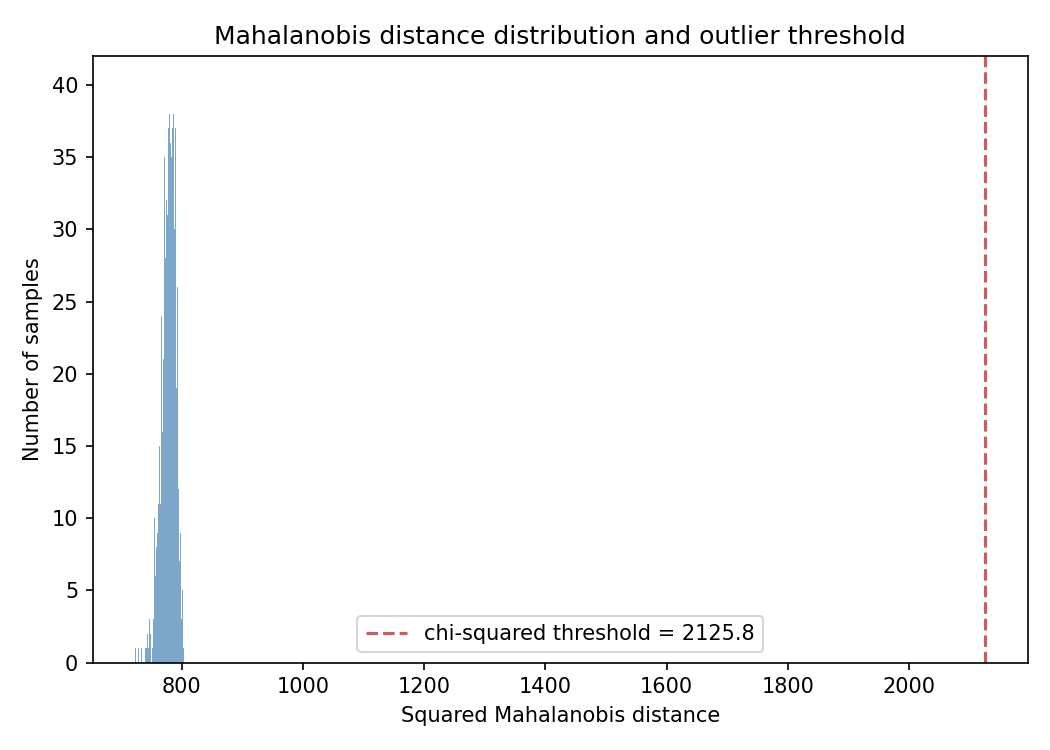
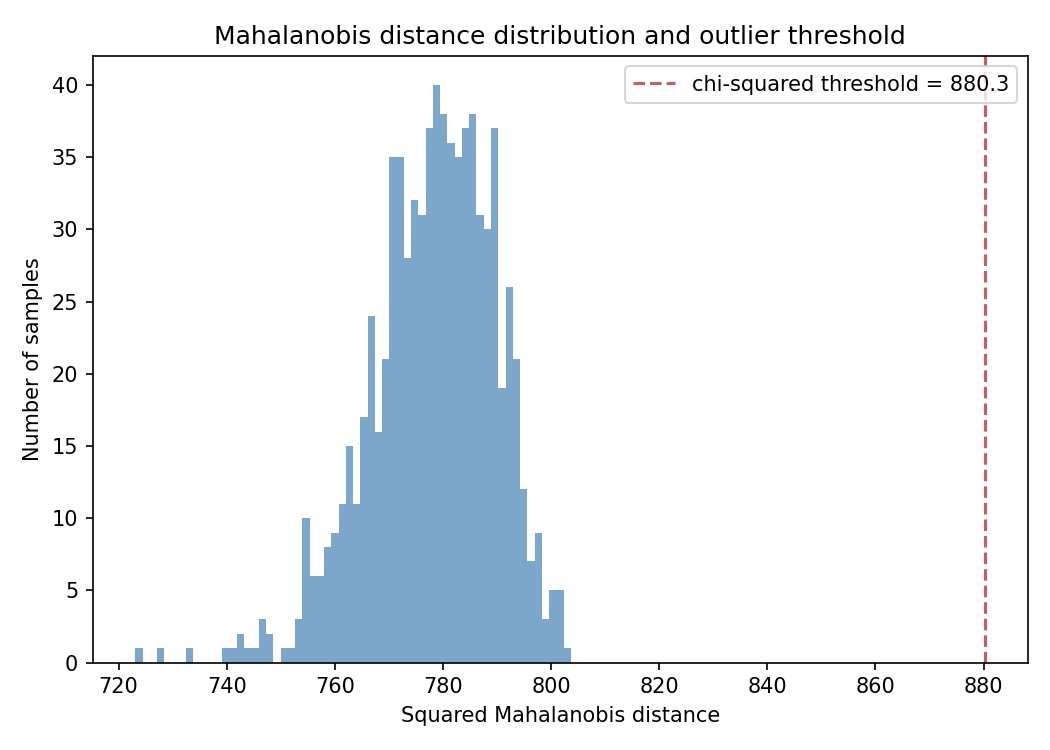
After doing a full check of the results, some issues were found - thus a full sweep of the project was performed and the solutions were implemented

diff --git a/run_pipeline.py b/run_pipeline.py
@@ -38,6 +38,32 @@ def _estimate_all(X: np.ndarray, seed: int) -> dict:
     }
 
 
+def _manifold_noise_sweep(n_samples: int, n_features: int, noise_levels: list, seed: int) -> None:
+    """Print estimator behaviour on the manifold baseline across noise levels.
+
+    Motivates config.MANIFOLD_NOISE_STD: the additive noise contributes
+    n_features * sigma^2 of total variance against only MANIFOLD_INTRINSIC_DIM
+    from signal, so "small" sigma must be judged relative to the ambient
+    dimension. Preprocessing matches the main run so the sigma chosen there is
+    directly comparable to the summary table.
+    """
+    print("\nPhase 2 manifold-baseline noise sensitivity (true dimension "
+          f"{config.MANIFOLD_INTRINSIC_DIM}):")
+    for sigma in noise_levels:
+        X = preprocessing.standardize(
+            synthetic.generate_low_dim_manifold_baseline(
+                n_samples, n_features, config.MANIFOLD_INTRINSIC_DIM, sigma, seed
+            )
+        )
+        res = _estimate_all(X, seed)
+        print(
+            f"  sigma={sigma:<7} D2={res['correlation']['D2']:>7.2f}  "
+            f"kaiser={res['pca']['elbow_kaiser']:>4}  "
+            f"PCA@90={res['pca']['n_components_at_threshold'][0.90]:>4}  "
+            f"kNN-MLE(k=10)={res['knn']['per_k'][10]['mean_dimension']:>8.2f}"
+        )
+
+
 def main():
     Path(config.PROCESSED_DIR).mkdir(parents=True, exist_ok=True)
     Path(config.FIGURES_DIR).mkdir(parents=True, exist_ok=True)
@@ -98,10 +124,18 @@ def main():
     )
 
     # --- Phase 2: synthetic baselines, matched in shape to the real full matrix ---
+    # Both baselines are standardized like the real data, so the estimators see
+    # one identical preprocessing path across all three datasets. Without this the
+    # manifold baseline would be calibrated on unscaled coordinates while the real
+    # data is z-scored, making the comparison an unequal one.
     n_samples, n_features = X_scaled_full.shape
-    noise_baseline = synthetic.generate_gaussian_noise_baseline(n_samples, n_features, config.RANDOM_SEED)
-    manifold_baseline = synthetic.generate_low_dim_manifold_baseline(
-        n_samples, n_features, config.MANIFOLD_INTRINSIC_DIM, config.MANIFOLD_NOISE_STD, config.RANDOM_SEED
+    noise_baseline = preprocessing.standardize(
+        synthetic.generate_gaussian_noise_baseline(n_samples, n_features, config.RANDOM_SEED)
+    )
+    manifold_baseline = preprocessing.standardize(
+        synthetic.generate_low_dim_manifold_baseline(
+            n_samples, n_features, config.MANIFOLD_INTRINSIC_DIM, config.MANIFOLD_NOISE_STD, config.RANDOM_SEED
+        )
     )
 
     # --- Phase 2: run all three estimators on real data and both baselines ---
@@ -135,6 +169,15 @@ def main():
 
     print("\nPhase 2 intrinsic dimension summary:")
     print(summary_table.to_string())
+    print("\nPhase 2 PCA elbow criteria (component index):")
+    for name, res in {"Real (RNA-Seq)": real_results, **synthetic_results}.items():
+        print(f"  {name}: kaiser={res['pca']['elbow_kaiser']}, curvature={res['pca']['elbow_curvature']}")
+    print(
+        f"Phase 2 correlation-dimension scaling region (real): "
+        f"[{real_results['correlation']['scaling_region'][0]:.1f}, "
+        f"{real_results['correlation']['scaling_region'][1]:.1f}]"
+    )
+    _manifold_noise_sweep(n_samples, n_features, [0.1, 0.01, 0.001], config.RANDOM_SEED)
     print("\nReconciliation:\n" + reconciliation)
     print(
         f"\nPhase 2 complete. Real data: D2={real_results['correlation']['D2']:.2f}, "
@@ -185,7 +228,10 @@ def main():
 
     # --- Phase 3: spectral analysis (top-k genes) vs. Marchenko-Pastur ---
     spectral_eigs = spectral_analysis.empirical_spectral_distribution(X_scaled_topk)
-    spectral_aspect_ratio = X_scaled_topk.shape[1] / X_scaled_topk.shape[0]
+    # Columns are mean-centred, so the correlation matrix carries n-1 effective
+    # degrees of freedom, not n. Using n would put the MP point mass at 59.95%
+    # against an empirical 60.00% that is in fact exact.
+    spectral_aspect_ratio = X_scaled_topk.shape[1] / (X_scaled_topk.shape[0] - 1)
     spectral_outliers = spectral_analysis.identify_spectral_outliers(spectral_eigs, spectral_aspect_ratio)
     support_upper = spectral_outliers["support_upper"]
     bulk_eigs = spectral_eigs[(spectral_eigs > 1e-8) & (spectral_eigs <= support_upper)]
@@ -202,6 +248,9 @@ def main():
         f"empirical near-zero fraction={spectral_outliers['frac_near_zero_empirical']:.4f} vs. "
         f"theoretical point mass={spectral_outliers['point_mass_at_zero_theoretical']:.4f}"
     )
+    top10_eigs = spectral_outliers["outlier_eigenvalues"][:10]
+    print("Phase 3 ten largest spectral outliers:", " ".join(f"{e:.2f}" for e in top10_eigs))
+    print(f"Phase 3 outlier eigenvalue mass: {top10_eigs.sum():.2f} of trace {spectral_eigs.sum():.0f}")
 
     # --- Phase 3: distance concentration / curse of dimensionality ---
     geometry_feature_counts = config.GEOMETRY_FEATURE_COUNTS + [X_scaled_full.shape[1]]
@@ -220,7 +269,12 @@ def main():
 
     # --- Phase 3: Ledoit-Wolf shrinkage covariance + Mahalanobis anomaly detection ---
     cov_estimate = anomaly_detection.shrinkage_covariance(X_scaled_topk)
-    mahalanobis_threshold = anomaly_detection.chi_squared_threshold(X_scaled_topk.shape[1], config.MAHALANOBIS_ALPHA)
+    # Degrees of freedom are the rank of the centred sample covariance (n-1), not the
+    # feature count: with p=2000 > n=801 the squared distances live in an 800-dim
+    # subspace and their mean is bounded by (n-1)/(1-shrinkage) regardless of the data,
+    # so a chi^2_p threshold sits above the statistic's mathematical ceiling.
+    mahalanobis_dof = X_scaled_topk.shape[0] - 1
+    mahalanobis_threshold = anomaly_detection.chi_squared_threshold(mahalanobis_dof, config.MAHALANOBIS_ALPHA)
     mahalanobis_result = anomaly_detection.mahalanobis_outliers(X_scaled_topk, cov_estimate, mahalanobis_threshold)
     viz.mahalanobis_distribution_plot(
         mahalanobis_result["distances_squared"], mahalanobis_threshold, y_values,
@@ -229,11 +283,19 @@ def main():
     flagged_labels = y.iloc[mahalanobis_result["flagged_indices"]]
     outlier_crosstab = flagged_labels.value_counts().rename("n_flagged").to_frame()
     outlier_crosstab.to_csv(Path(config.FIGURES_DIR) / "mahalanobis_outliers_by_class.csv")
+    d2 = mahalanobis_result["distances_squared"]
     print(
         f"Phase 3 anomaly detection: shrinkage={cov_estimate['shrinkage']:.4f}, "
-        f"threshold(chi2, alpha={config.MAHALANOBIS_ALPHA})={mahalanobis_threshold:.2f}, "
+        f"threshold(chi2, dof={mahalanobis_dof}, alpha={config.MAHALANOBIS_ALPHA})={mahalanobis_threshold:.2f}, "
         f"n_flagged={len(mahalanobis_result['flagged_indices'])}/{X_scaled_topk.shape[0]}"
     )
+    print(
+        f"Phase 3 squared Mahalanobis distances: min={d2.min():.2f}, max={d2.max():.2f}, "
+        f"mean={d2.mean():.2f}, std={d2.std():.2f}"
+    )
+    print("Phase 3 ten largest squared Mahalanobis distances:")
+    for rank in np.argsort(d2)[::-1][:10]:
+        print(f"  {y.index[rank]}  {y.iloc[rank]}  {d2[rank]:.2f}")
     print("Flagged outliers by class:\n", outlier_crosstab.to_string())
 
     print("\nPhase 3 complete.")

diff --git a/src/intrinsic_dimension.py b/src/intrinsic_dimension.py
@@ -135,9 +135,17 @@ def _kaiser_elbow(eigenvalues: np.ndarray) -> int:
 
 
 def _curvature_elbow(explained_variance_ratio: np.ndarray) -> int:
-    """Second-derivative elbow: index of maximum curvature in the scree curve."""
+    """Second-derivative elbow: index of maximum curvature in the scree curve.
+
+    A scree curve is decreasing and convex, so its discrete second difference
+    is non-negative and peaks where the steep initial drop flattens out --
+    the elbow. Taking the maximum of the *negated* second difference instead
+    would locate the point of maximum concavity, which on such a curve is not
+    an elbow at all (on the 5-D manifold baseline it returns 4 rather than 5,
+    and on isotropic noise it returns the final index).
+    """
     second_derivative = np.diff(explained_variance_ratio, n=2)
-    return int(np.argmax(-second_derivative)) + 1
+    return int(np.argmax(second_derivative)) + 1
 
 
 def pca_based_dimension(X: np.ndarray, variance_thresholds: list) -> dict:
@@ -145,8 +153,8 @@ def pca_based_dimension(X: np.ndarray, variance_thresholds: list) -> dict:
 
     Numerical note
     ---------------
-    With d=20,531 >> n=801, the (d x d) sample covariance matrix is never
-    formed explicitly (it would require ~3.4 GB and is rank-deficient with
+    With d=20,264 >> n=801, the (d x d) sample covariance matrix is never
+    formed explicitly (it would require ~3.3 GB and is rank-deficient with
     rank <= n-1). Instead the economy SVD of the centered (n x d) data
     matrix is used: eigenvalues of the covariance equal S^2 / (n-1) for
     singular values S, giving all min(n, d) non-trivial eigenvalues exactly.

diff --git a/src/config.py b/src/config.py
@@ -51,7 +51,7 @@ UMAP_N_NEIGHBORS_VALUES = [15, 50]
 # Johnson-Lindenstrauss random projection: target distortion epsilon. 0.2 is
 # chosen over the more conservative textbook default of 0.1 because, at
 # n=801, the Dasgupta-Gupta bound k >= 4 ln(n) / (eps^2/2 - eps^3/3) scales
-# as 1/eps^2 and eps=0.1 yields a target dimension (~5732) that barely
+# as 1/eps^2 and eps=0.1 yields a target dimension (5731) that barely
 # compresses the d=20,264 ambient space, obscuring the demonstration; 0.2
 # yields a still-tight, standard distortion tolerance with a much more
 # illustrative ~13x reduction.

diff --git a/ai_usage_log.md b/ai_usage_log.md
@@ -6,9 +6,11 @@ phase is completed.
 
 ## Tool
 
-**Claude Code** (Anthropic), model Claude Sonnet 5, CLI agent with direct
+**Claude Code** (Anthropic), model Claude Sonnet 5 & Claude Opus 5, CLI agent with direct
 read/write/execute access to this repository. Used for the majority of code
 generation, the Phase 1 LaTeX report, and this log itself.
+**Google's Gemini** (Google), model Gemini Pro, used to optimise prompts that were provided for Claude Code.
+
 
 ## Phase 0 — Environment & Reproducibility
 
@@ -403,3 +405,22 @@ made.
   and the numeric claims embedded in `reports/phase_{1,2,3}.tex`), rather
   than transcribing from memory; no python code was executed this phase
   since all required numbers were already cached from Phases 1--3 runs.
+
+## Phase 5 — Project Report Review Pass
+
+**Tool:** Claude Code (Anthropic), model Claude Opus 5, same repository access.
+
+**Driving prompt:** The agent was instructed to conduct a comprehensive audit of the project report, document any identified issues along with their root causes, and propose specific remedies. It was explicitly directed to provide detailed explanations for every problem and require user approval before applying any fixes.
+
+**What the agent did:** audited every quantitative claim in the report against the code that produced it (`src/*.py`, `run_pipeline.py`) and against the cached artifacts, then applied approved fixes and re-ran the pipeline. Scope was agreed in advance: fix the report and the `src/` root causes, but implement no new analyses — unsupported claims were retired and moved to Future Work rather than backed by new experiments. `reports/phase_{1,2,3,4}.tex` were deliberately left untouched as the historical per-phase record, so they still contain the pre-correction numbers.
+
+**Code defects found and fixed:**
+- `src/intrinsic_dimension.py::_curvature_elbow` computed `argmax(-second_derivative)`, i.e. the *minimum* of the second difference. A scree curve is convex-decreasing, so the elbow is the maximum. The sign inversion made all three reported curvature elbows meaningless; the corrected version returns 5 on the manifold baseline (ground truth 5, previously 4), 54 on Gaussian noise (previously 799, the final index), and 3 on the real data (previously 2).
+- `run_pipeline.py` thresholded Mahalanobis distances against chi-squared with df = 2000 (the feature count). With p=2000 > n=801 the statistic is confined by rank to 800 dimensions, and its mean is bounded above by (n-1)/(1-alpha) = 819.6 regardless of the data, so the 97.5% quantile of chi2_2000 (2125.84) could never be reached. Changed to df = n-1 = 800 (threshold 880.28). The result is still zero flagged samples, but it is now a test that could have failed: the most extreme sample reaches 91.3% of the threshold.
+- `run_pipeline.py` ran the estimators on unstandardized synthetic baselines while the real data was standardized, contradicting the report's claim that all three datasets took an identical path. Both baselines are now standardized.
+- `run_pipeline.py` used aspect ratio p/n for the Marchenko-Pastur comparison. Because standardization centres each column, the correct ratio is p/(n-1) = 2.500, which makes the point-mass prediction exactly 60.00% — matching the empirical value exactly rather than approximately.
+- `src/config.py` documented the eps=0.1 Johnson-Lindenstrauss target dimension as ~5732; the formula gives ceil(5730.74) = 5731.
+
+**Additions for traceability (no analysis logic changed):** `run_pipeline.py` now prints the PCA elbow criteria per dataset, the correlation-dimension scaling region, the ten largest spectral outliers and their share of the trace, the Mahalanobis distance summary and top-ten samples, and a `_manifold_noise_sweep()` reproducing the noise-sensitivity table that had previously been generated ad hoc and was left stale by the standardization fix.
+
+**Report claims retired, not fixed:** the review found several assertions that no computed quantity supported. Rather than run new experiments, these were weakened to what the evidence shows and listed as future work: the "near-perfect five-cluster structure" of the t-SNE/UMAP embeddings (never measured — no clustering metric exists in `src/`); the claim that cluster *membership* is invariant across hyperparameters (unmeasurable from two scatter plots); "50 components, and no more" as a quantitative bridge (50 was a fixed default, never swept); the framing of Johnson-Lindenstrauss satisfaction as evidence of low dimensionality (it holds for any point set, including pure noise); the attribution of the Kaiser-elbow/MP-outlier gap to gene filtering (two variables changed at once); and the treatment of the MP outlier count as a fourth independent intrinsic-dimension estimator (it is not one, was never calibrated against the baselines, and depends on the arbitrary k=2000).
